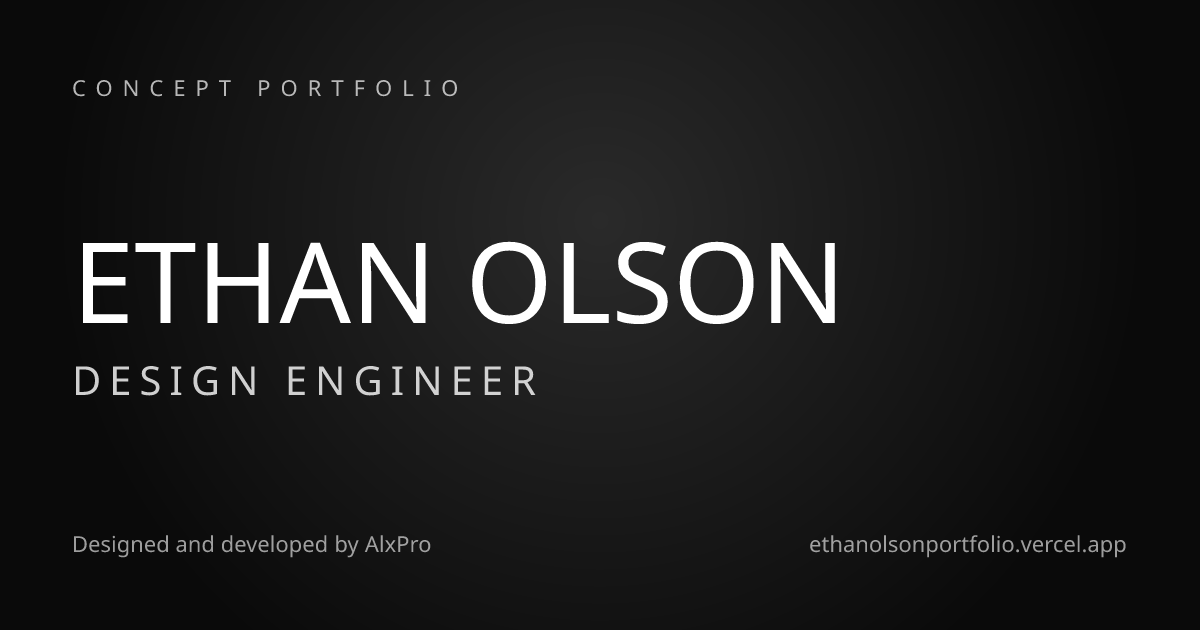
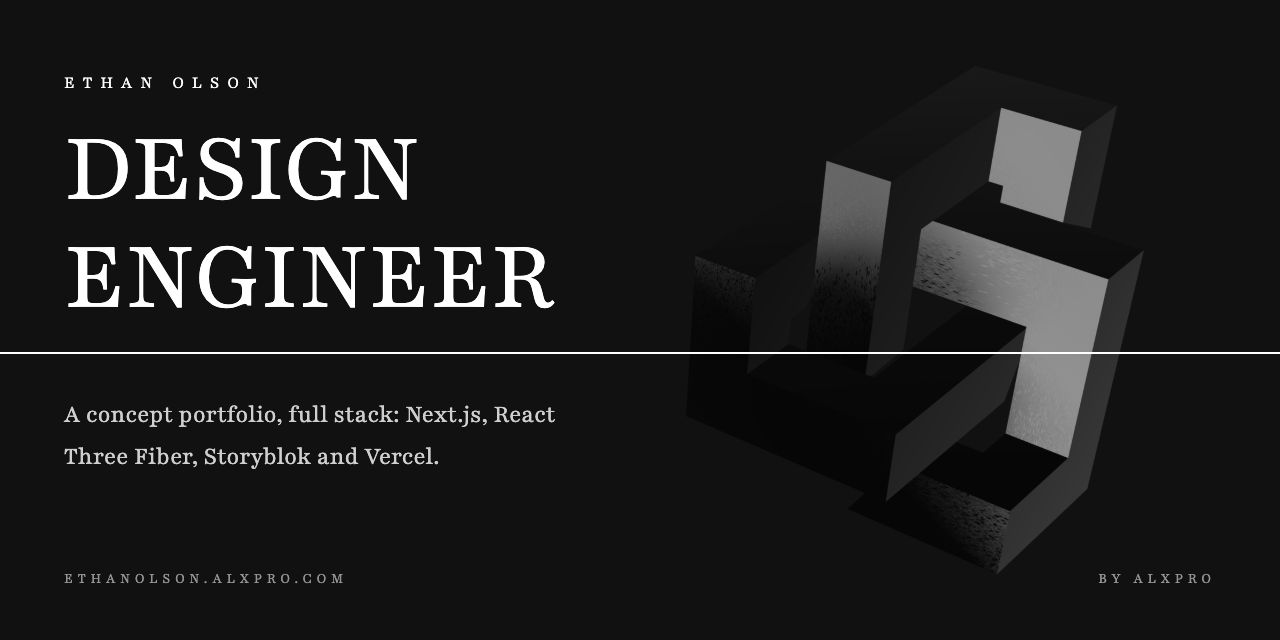
docs: v1.1 changelog, how the project is developed, and AlxPro credits (#102)
* docs: v1.1 changelog, how the project was built with AI agents, and a fresh hero screenshot

- CHANGELOG: the v1.1 section.
- README: "How this was built" describes the spec, build, review and ship loop with
  coding agents, where they carried the work and where I stepped in. "Coming next"
  no longer lists BotID (#29, not planned).
- .github/assets: the hero as it looks now, the new social preview card, and the unused
  contact form screenshot removed.

* docs: credit AlxPro, and describe how the project is developed

README, CONTRIBUTING, LICENSE and CREDITS name AlxPro. "How this was built" says who
owns what: I own the architecture, the specs and the code that ships, and review and
change every diff locally; agents draft implementations.

---------

diff --git a/README.md b/README.md
@@ -41,8 +41,8 @@ copy are invented to show how a motion-rich, full-stack portfolio is made.
 - Storyblok as the CMS, with the Visual Editor: every page's text, images and videos, the
   works (including new ones) and their animated blocks, checked against a content model
 
-Coming next (see the roadmap): Neon Postgres with Drizzle, Resend and Vercel BotID for the
-contact flow, Umami and self-built Web Vitals.
+Coming next (see the roadmap): Neon Postgres with Drizzle, rate limiting and Resend e-mails
+for the contact flow, Umami and self-built Web Vitals.
 
 ## Architecture
 
@@ -112,10 +112,33 @@ Put them in `.env.local`. Names only here. Never commit values.
 
 ## How this was built
 
-First version built from January to March 2026; cleaned up and published as `v1.0` in
-October 2026 (the clean-up was done with Claude Code); new features developed in the open
-since. Built with an agentic workflow: I write issues as specs, agents open the pull
-requests, and I review and merge every change.
+I'm the developer on this project, working with AI coding agents
+([Claude Code](https://claude.com/claude-code)) the way a lead works with a pair
+programmer. I own the architecture, the specs and the code that ships. Agents draft
+implementations; I read every diff, run it, and change the code myself until it's right.
+
+Every change goes through the same loop:
+
+1. **Spec.** Each change starts as an issue with context, a goal and acceptance criteria.
+   Example: [#82](https://github.com/al-xpro/ethanolson/issues/82), the home page freezes
+   in Safari.
+2. **Implement on a branch.** The first draft runs typecheck, lint, tests and the build
+   before I see it.
+3. **Review and change it locally.** I read the diff, run the site in Safari and Chrome, on
+   a phone and with reduced motion, and edit the code directly where it needs it: the
+   lighting values of the 3D hero, layouts, copy. Nothing is pushed before I've used it.
+4. **Pull request.** What, Why and How to test, linked to its issue. CI has to pass, and I
+   merge.
+5. **Ship.** A merge into `main` deploys to production.
+
+Small, safe changes (docs, chores, patch updates) take a **fast lane**: no issue, and the
+pull request merges itself when CI is green. Features, data, security and CI take the
+**review lane** above. The [project board](https://github.com/users/al-xpro/projects/5)
+shows both.
+
+Commits drafted with an agent carry a `Co-Authored-By` trailer, so the history is honest
+about how the work was done. The first version was built from January to March 2026,
+published as `v1.0` in October 2026, and developed in the open since.
 
 ## Roadmap
 
@@ -131,5 +154,5 @@ Issues are welcome. See [CONTRIBUTING.md](CONTRIBUTING.md), the
 
 Media sources are listed in [CREDITS.md](CREDITS.md).
 
-© Alex Prostamo. All rights reserved. The code is public so it can be read and reviewed.
+© AlxPro. All rights reserved. The code is public so it can be read and reviewed.
 It is not licensed for reuse or redistribution. See [LICENSE](LICENSE).

diff --git a/CHANGELOG.md b/CHANGELOG.md
@@ -3,6 +3,50 @@
 All notable changes to this project, newest first. Versions follow
 [semver](https://semver.org).
 
+## v1.1 · 2026-10-21
+
+Pages and polish: the one-page concept becomes a full site, editable in Storyblok, and goes
+live on Vercel.
+
+### Added
+
+- Pages: about, services, works with five project pages, contact, privacy policy, terms
+  and a 404 page, with a sticky reveal footer.
+- A testimonials deck on the home page, and the real projects in the works gallery.
+- Storyblok with the Visual Editor: every page's text, images and videos, and the works
+  (new ones too), checked against a content model with limits on characters, items and
+  file weight. Broken content falls back to the defaults on the published site.
+- Draft mode and a signed publish webhook that refreshes the site within seconds.
+- A preferred-call date picker on the contact page, with availability that changes every
+  month and no booking service; a drawer on phones.
+- `llms.txt` that follows the recommendations, a Markdown version of every page, and a
+  footer link to see any page as an agent does.
+- A minimap for in-page navigation on small screens, and smooth in-page navigation on the
+  services and legal pages.
+- Production deployments: every merge into `main` deploys.
+
+### Changed
+
+- The hero figure: a modified version of the original optical illusion, reshaped and
+  cleaned, in black metal. It turns into place, then turning white strips light it.
+- The favicon and icons, rendered from the figure.
+- The services section: a sticky four-step timeline instead of a card stack.
+- The contact form: on its own page, with errors only after Send.
+- Every image has explicit dimensions and a blur placeholder.
+- The concept is mentioned only in the footer.
+
+### Fixed
+
+- Safari: the home page froze and wouldn't scroll, and the outro stuttered.
+- Layouts in landscape on phones, and every block at least 320px wide.
+- Keyboard focus in the parallax sections (works tiles and testimonial links), and
+  prohibited ARIA attributes on split text.
+- The figure was cut at the bottom on tablets and laptops.
+
+### Removed
+
+- The Penrose triangle, the booking embed, and the scrollbars.
+
 ## v1.0 · 2026-10-15
 
 The first public release: the concept portfolio as it was built from January to March

diff --git a/CREDITS.md b/CREDITS.md
@@ -17,7 +17,7 @@ repository. They are not for resale.
 
 ## Video
 
-- `public/videos/design.mp4` and `water-ripple.mp4`: edited by Alex Prostamo from
+- `public/videos/design.mp4` and `water-ripple.mp4`: edited by AlxPro from
   royalty-free stock footage.
 - `public/videos/*-poster.jpg`: still frames from those two videos.
 

diff --git a/CONTRIBUTING.md b/CONTRIBUTING.md
@@ -1,7 +1,7 @@
 # Contributing
 
 Thanks for your interest. This is a personal concept project by
-[Alex Prostamo](https://alxpro.com), developed in the open. Here's how it accepts help.
+[AlxPro](https://alxpro.com), developed in the open. Here's how it accepts help.
 
 ## Issues are welcome
 
